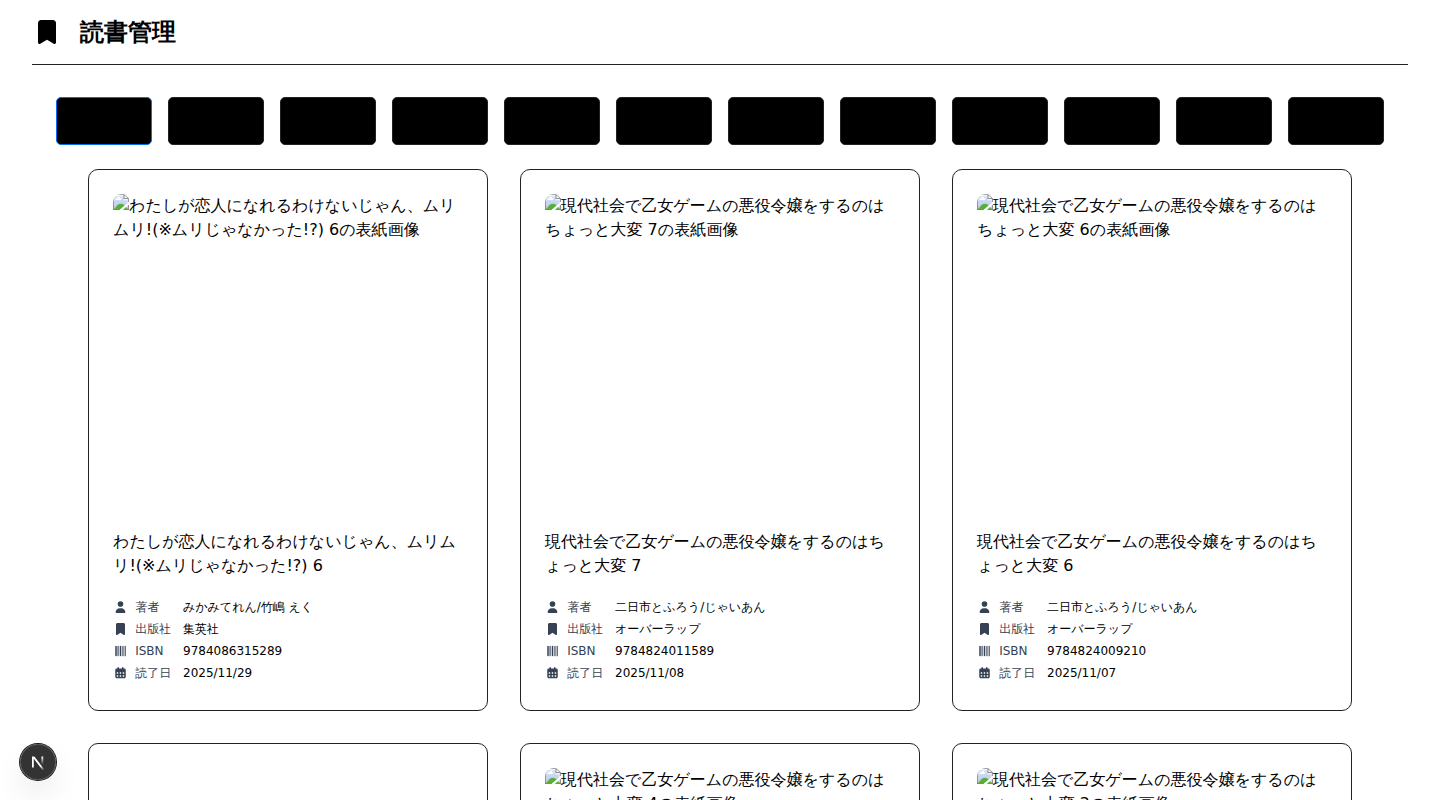
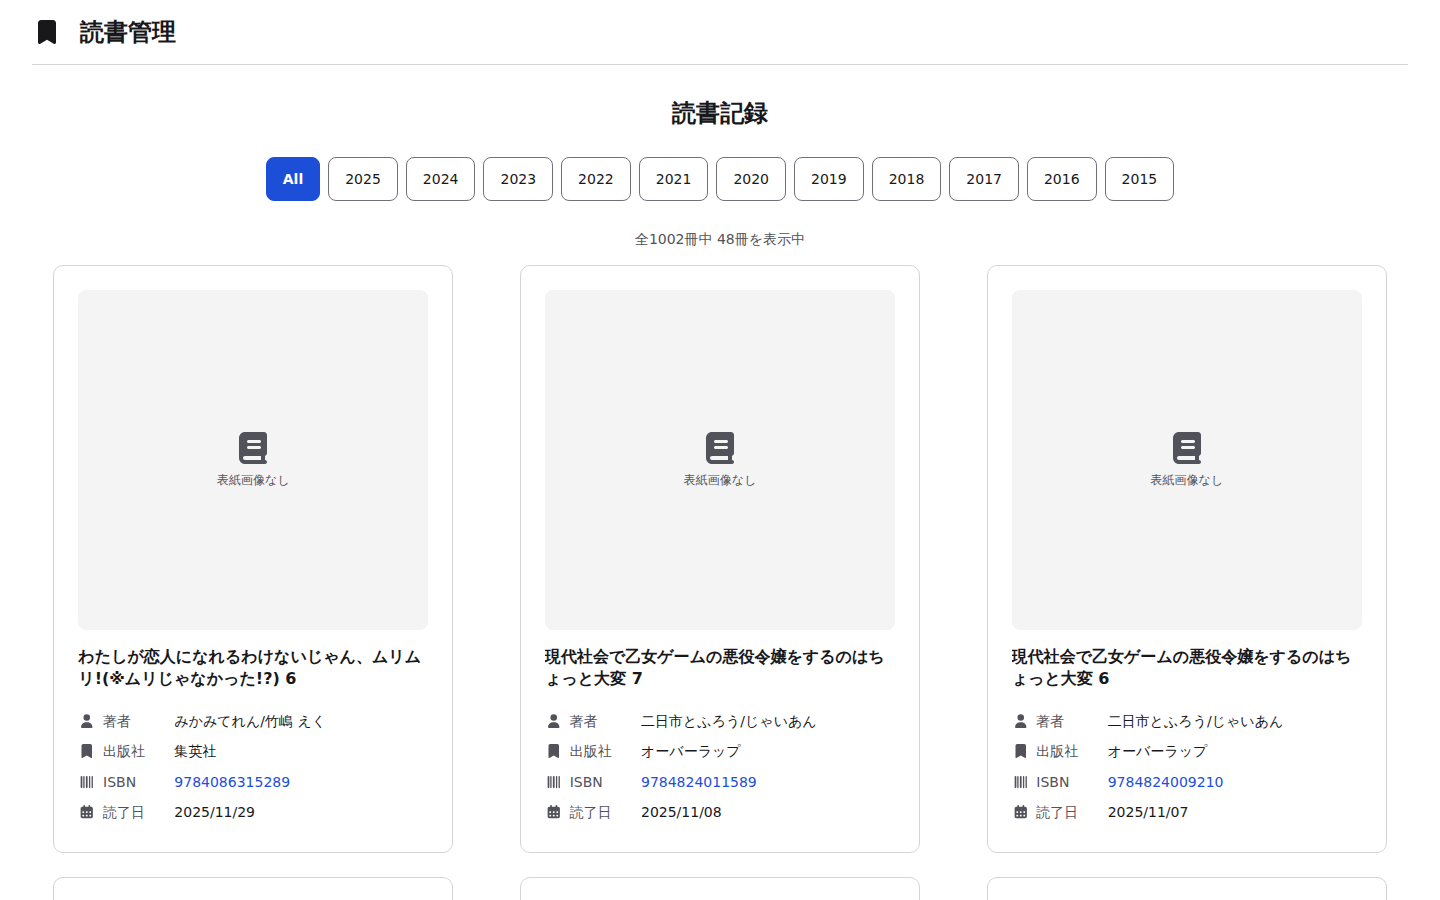
docs: デザイントークンとアクセシビリティ方針を README に反映する
スクリーンショット（home-1440 / 768 / 375）も現在の UI で撮り直した。

Claude-Session: https://claude.ai/code/session_01Xr51mSbJJTB3eMJ4ezQyAr

diff --git a/README.md b/README.md
@@ -6,13 +6,13 @@
 - **本棚ビュー**: グリッド表示で書影とメタ情報を一覧し、Intersection Observer による無限スクロールで 48 冊ずつ丁寧に追加ロード。
 - **年別フィルタ & セッション復元**: 選択した読了年は sessionStorage に保存され、年の追加/削除にも自動追従して次回来訪時も同じ条件で閲覧可能。
 - **詳細ページ & Kindle ハイライト連携**: 著者・出版社・ISBN・ASIN などをまとめ、Kindle の `kindle://` deeplink 付きハイライトを閲覧/遷移できます。
-- **アクセシビリティ**: ボタン/カードには ARIA 属性とキーボード操作を実装し、スクリーンリーダーでも読了冊数や操作対象が分かりやすい設計。
+- **アクセシビリティ**: `lang="ja"`・スキップリンク・見出し階層を整備し、カードは素の `<a>`、年フィルタは `aria-pressed` のトグル群として実装。フォーカスリングと `prefers-reduced-motion` はグローバルに保証。
 - **スクロール位置の復元**: 独自イベントと sessionStorage を組み合わせ、一覧↔詳細遷移後も最後に見ていたカード位置まで自動で戻す挙動を実装。
 
 ## 技術スタック
 - **フレームワーク**: Next.js 15.x（Pages Router）
 - **言語**: TypeScript 5.9（strict モード）
-- **UI**: Tailwind CSS（atomic design 構成のコンポーネント群）
+- **UI**: Tailwind CSS v4（CSS ファースト設定。配色は `src/styles/globals.css` の `--app-*` トークンに集約し、`prefers-color-scheme` でライト/ダークを切り替え）
 - **アイコン**: Font Awesome（`src/fontawesome.ts` で全 Solid アイコンを登録）
 - **リンター/フォーマッター**: Biome（`lint` / `lint:fix` / `format`）
 - **データ変換**: Node.js スクリプト `convert.js`（CSV→型安全な TS + JSON 出力）
@@ -84,6 +84,8 @@ npm run books:update # convert のエイリアス（慣用コマンド）
 - 無限スクロールは Intersection Observer + 遅延ロードで負荷を抑え、`books-rendered` イベントでスクロール復元と連携しています。
 - 詳細画面の Kindle リンクは ASIN が生成できる ISBN のみ deeplink を表示し、未対応の本でも一覧からの遷移は阻害しません。
 - Font Awesome の Solid アイコンをグローバル登録し、アイコン読み込みを 1 か所に集約しています。
+- 配色は `--app-*` トークン経由でのみ参照します。`bg-black` や `#222` のような直値を足すと、片方のカラースキームで文字や境界線が消えるため避けてください。
+- カードは stretched link パターン（擬似要素をカード全面に広げる）で全体をクリック可能にしています。カード内に別のリンクを足す場合は `relative z-10` で前面に出してください。
 
 ## コントリビューション
 [AGENTS.md](./AGENTS.md) にコーディング規約・レビュー手順などの詳細があります。Pull Request 作成前に `npm run lint` と `npm run build` を通過させてください。UI 変更がある場合はスクリーンショットの添付も推奨です。
